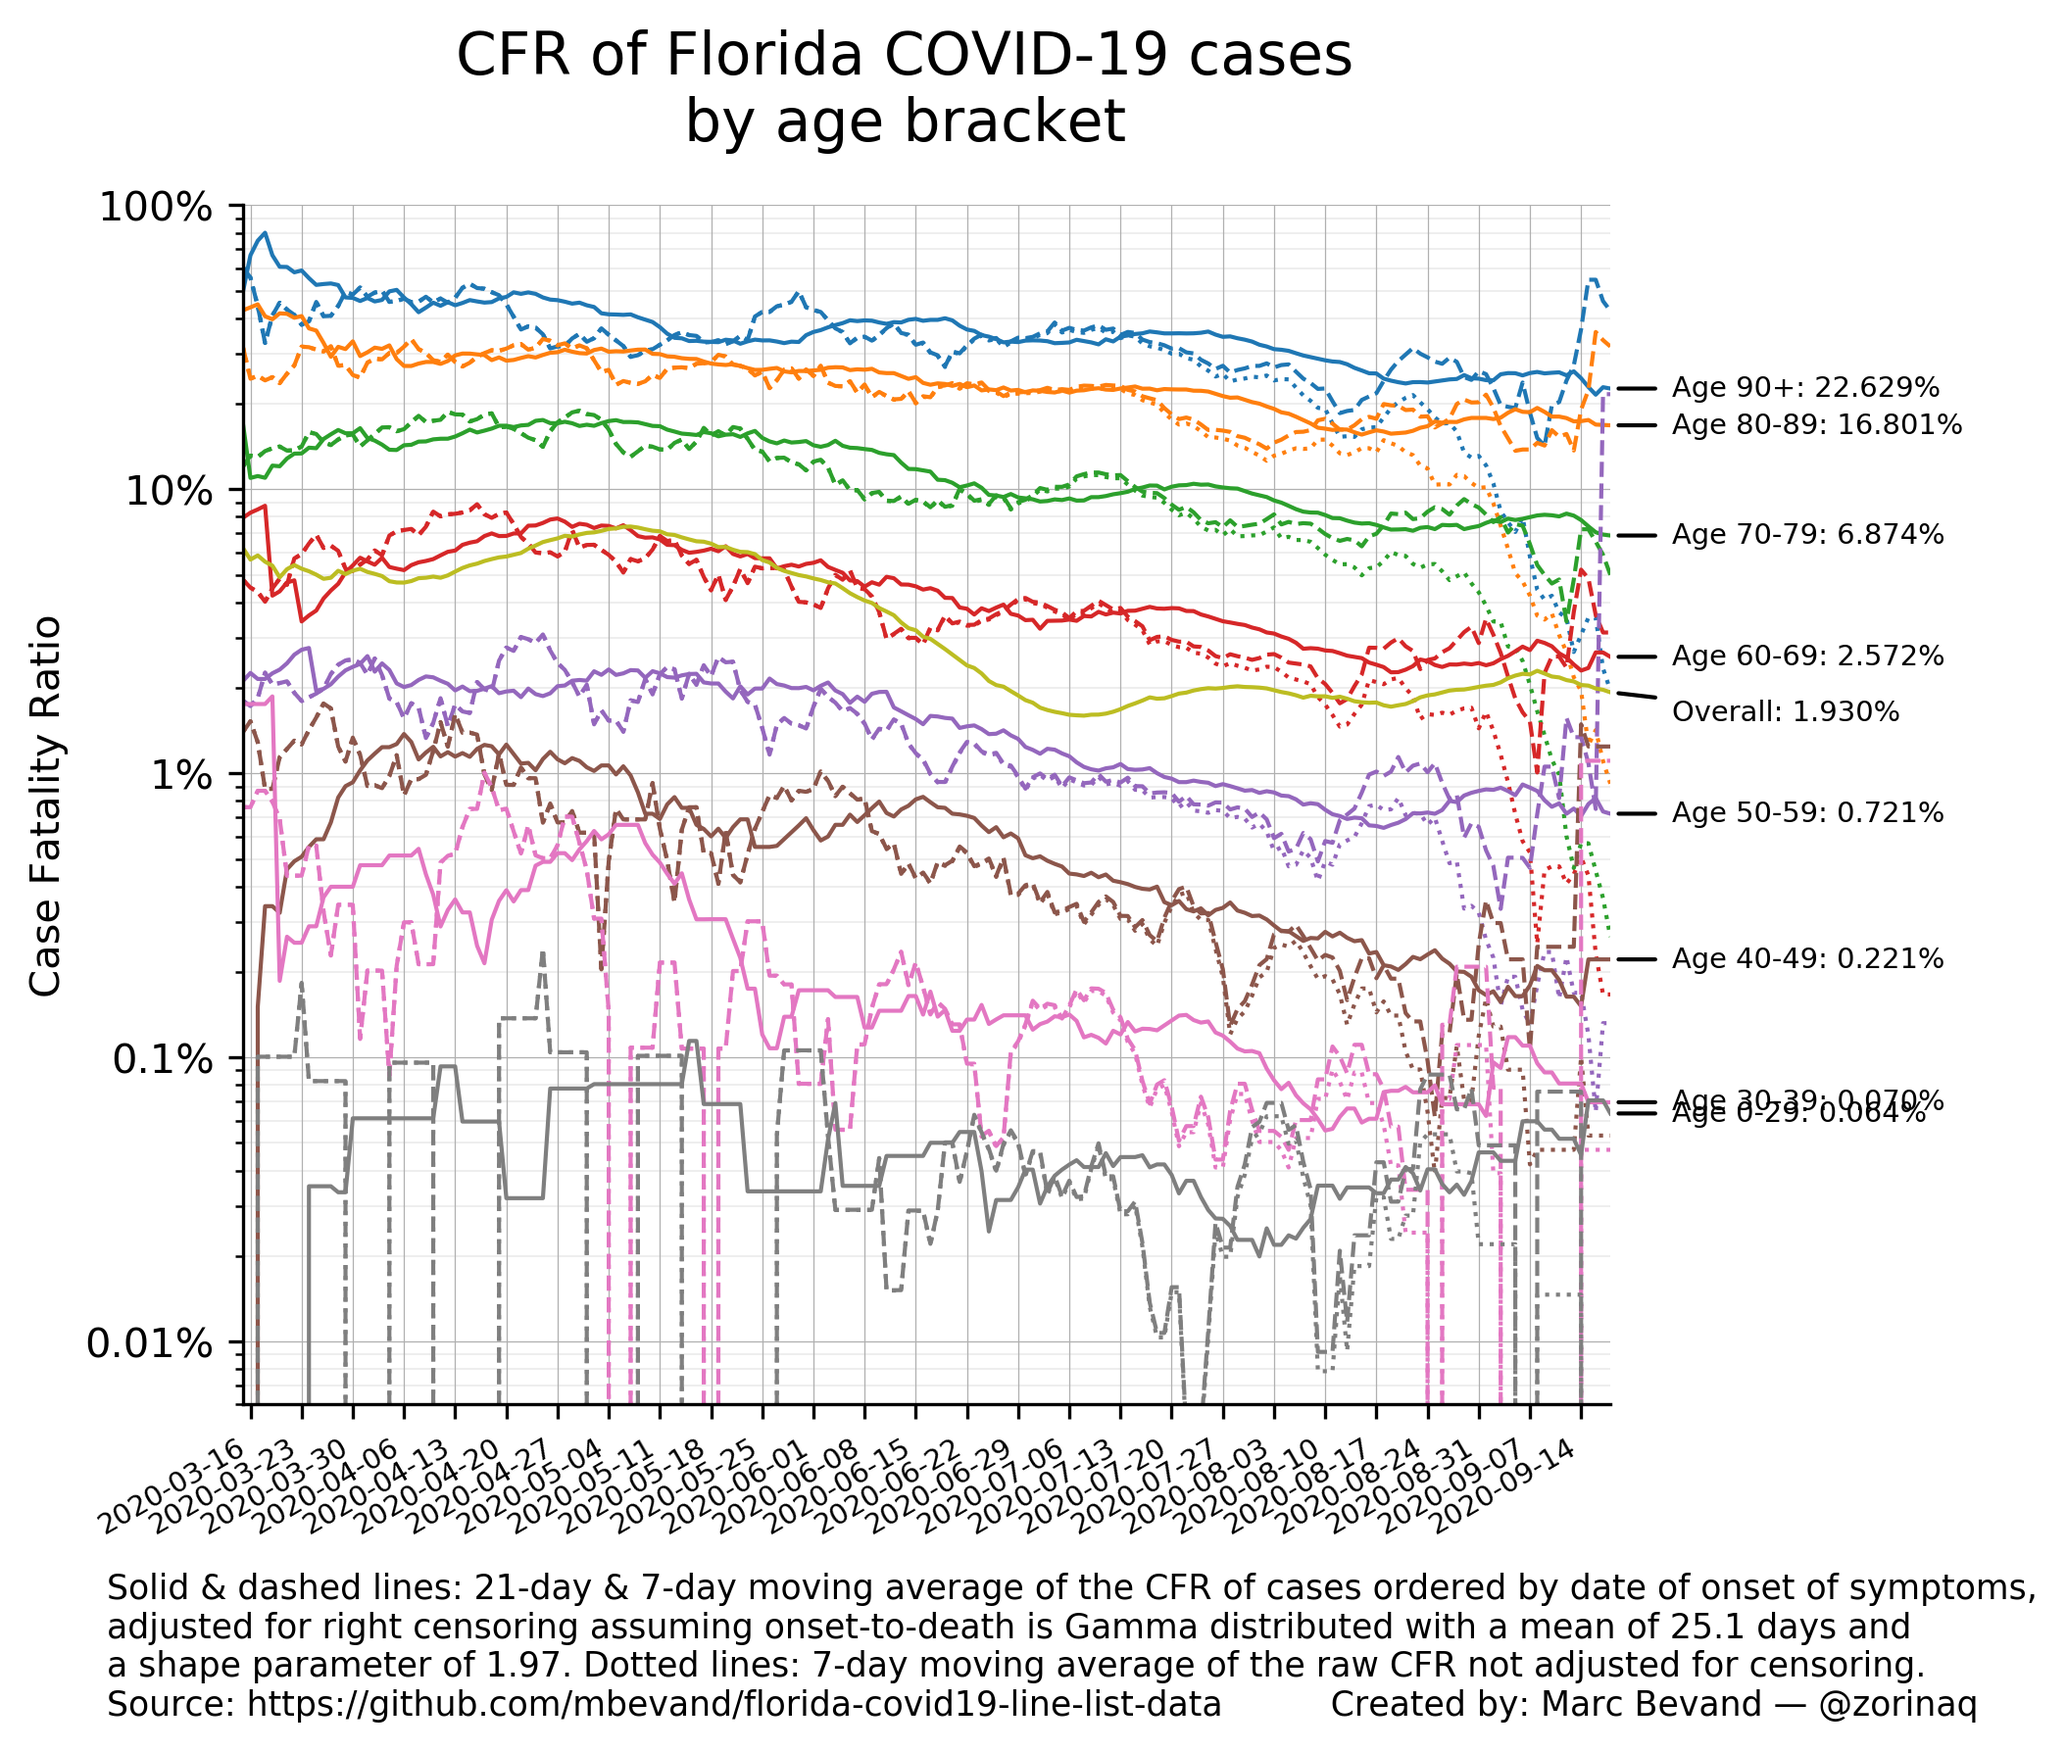
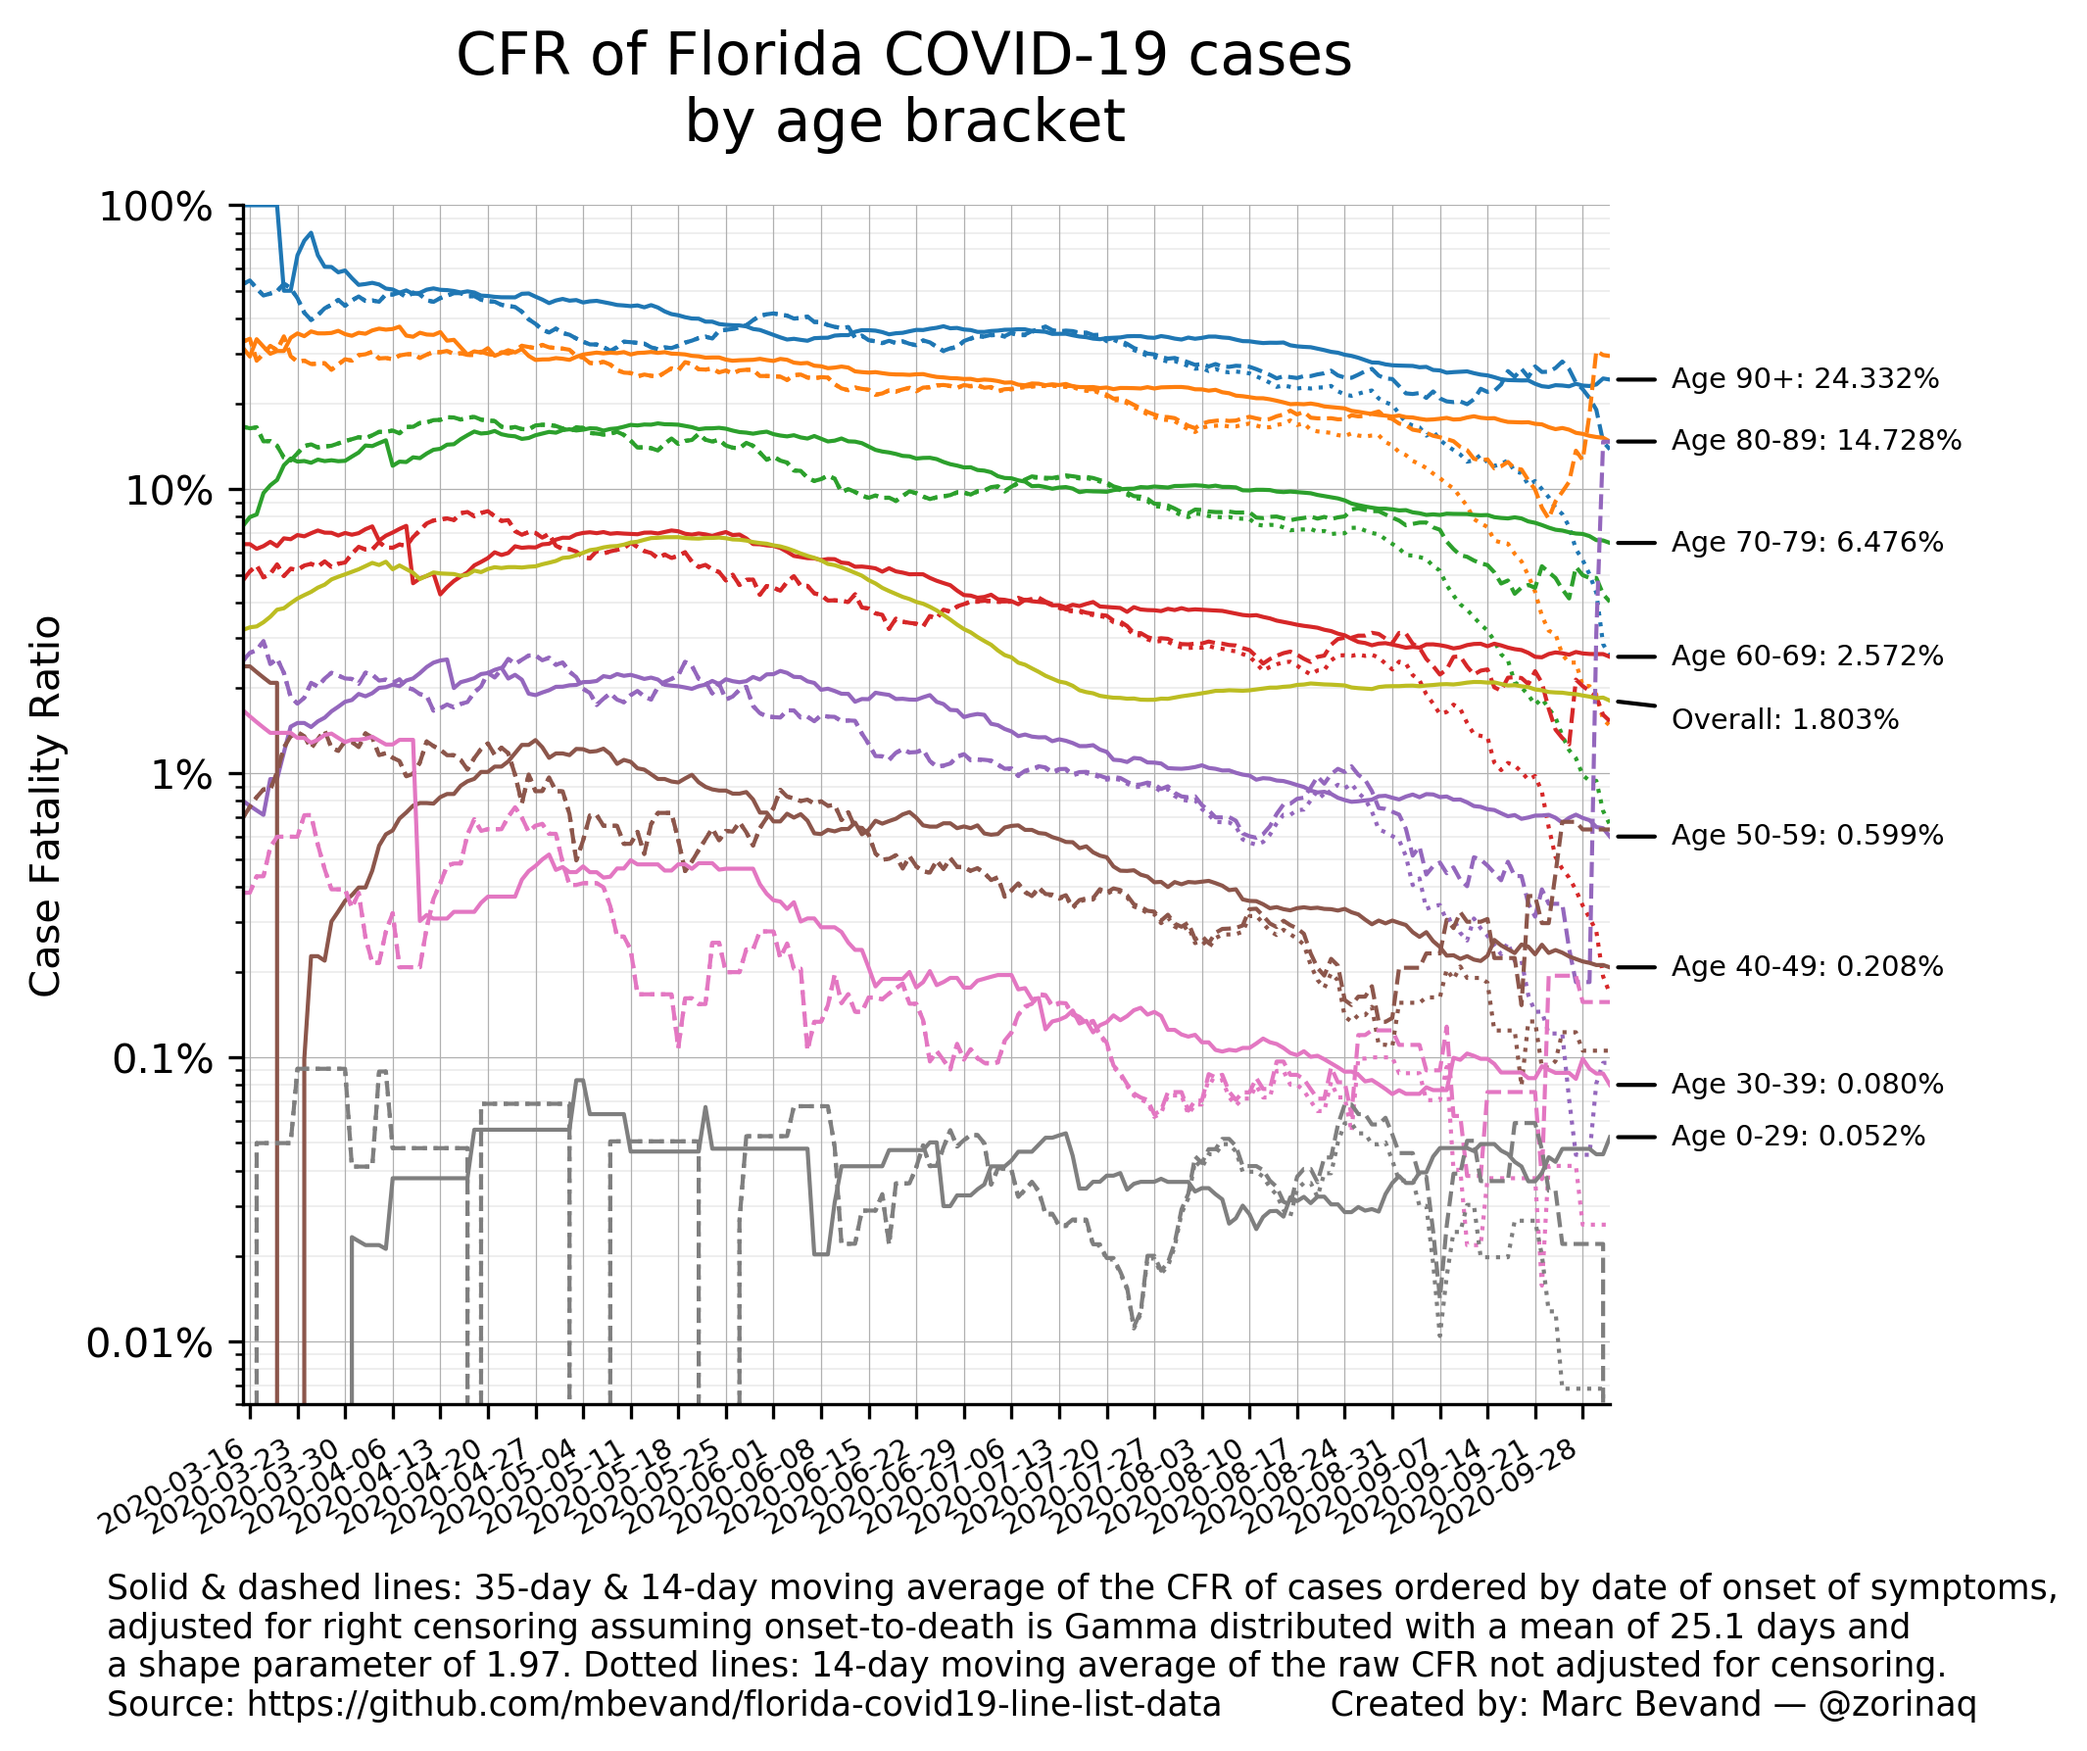
update age-stratified CFRs

Changed region(s): [[0.0617, 0.0923, 0.9559, 0.9849], [0.2158, 0.0, 0.6475, 0.0923]]

diff --git a/forecast_deaths.py b/forecast_deaths.py
@@ -108,15 +108,15 @@ cfr_models = [
         CFRModel(
             '5',
             'Our CFR calculated on the Florida line list (age_stratified_cfr.py)',
-            1.930 / 100, {
-                (0, 29):  0.064 / 100,
-                (30, 39): 0.070 / 100,
-                (40, 49): 0.221 / 100,
-                (50, 59): 0.721 / 100,
+            1.803 / 100, {
+                (0, 29):  0.052 / 100,
+                (30, 39): 0.080 / 100,
+                (40, 49): 0.208 / 100,
+                (50, 59): 0.599 / 100,
                 (60, 69): 2.572 / 100,
-                (70, 79): 6.874 / 100,
-                (80, 89): 16.801 / 100,
-                (90, 199): 22.629 / 100,
+                (70, 79): 6.476 / 100,
+                (80, 89): 14.728 / 100,
+                (90, 199): 24.332 / 100,
                 }
             ),
         ]
